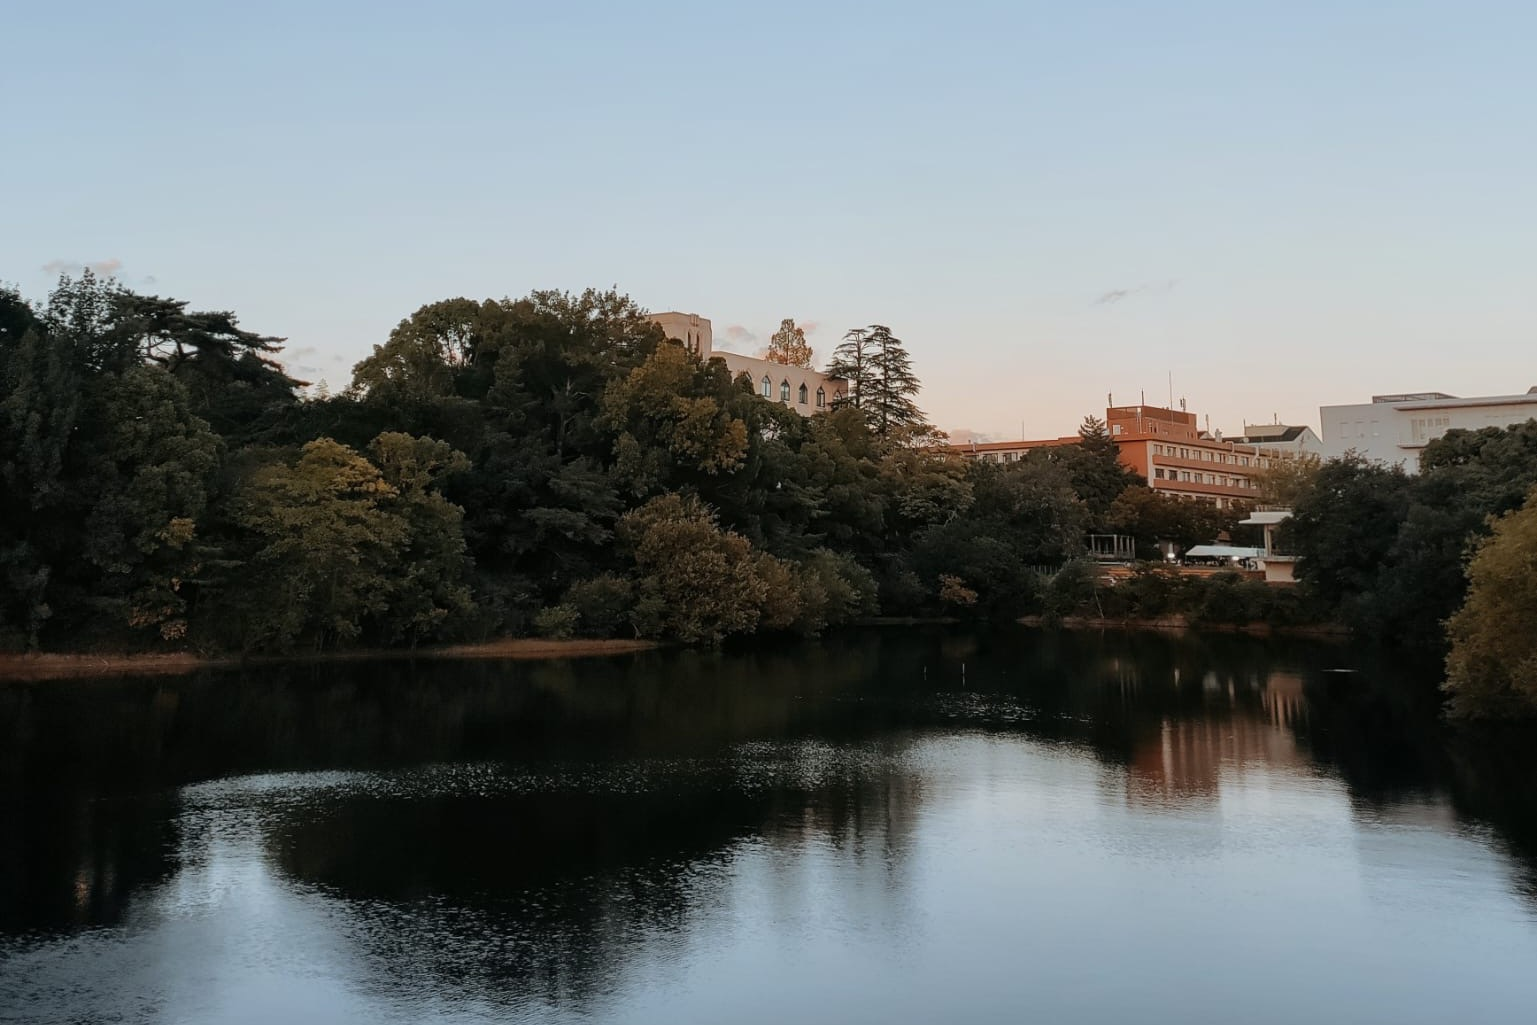
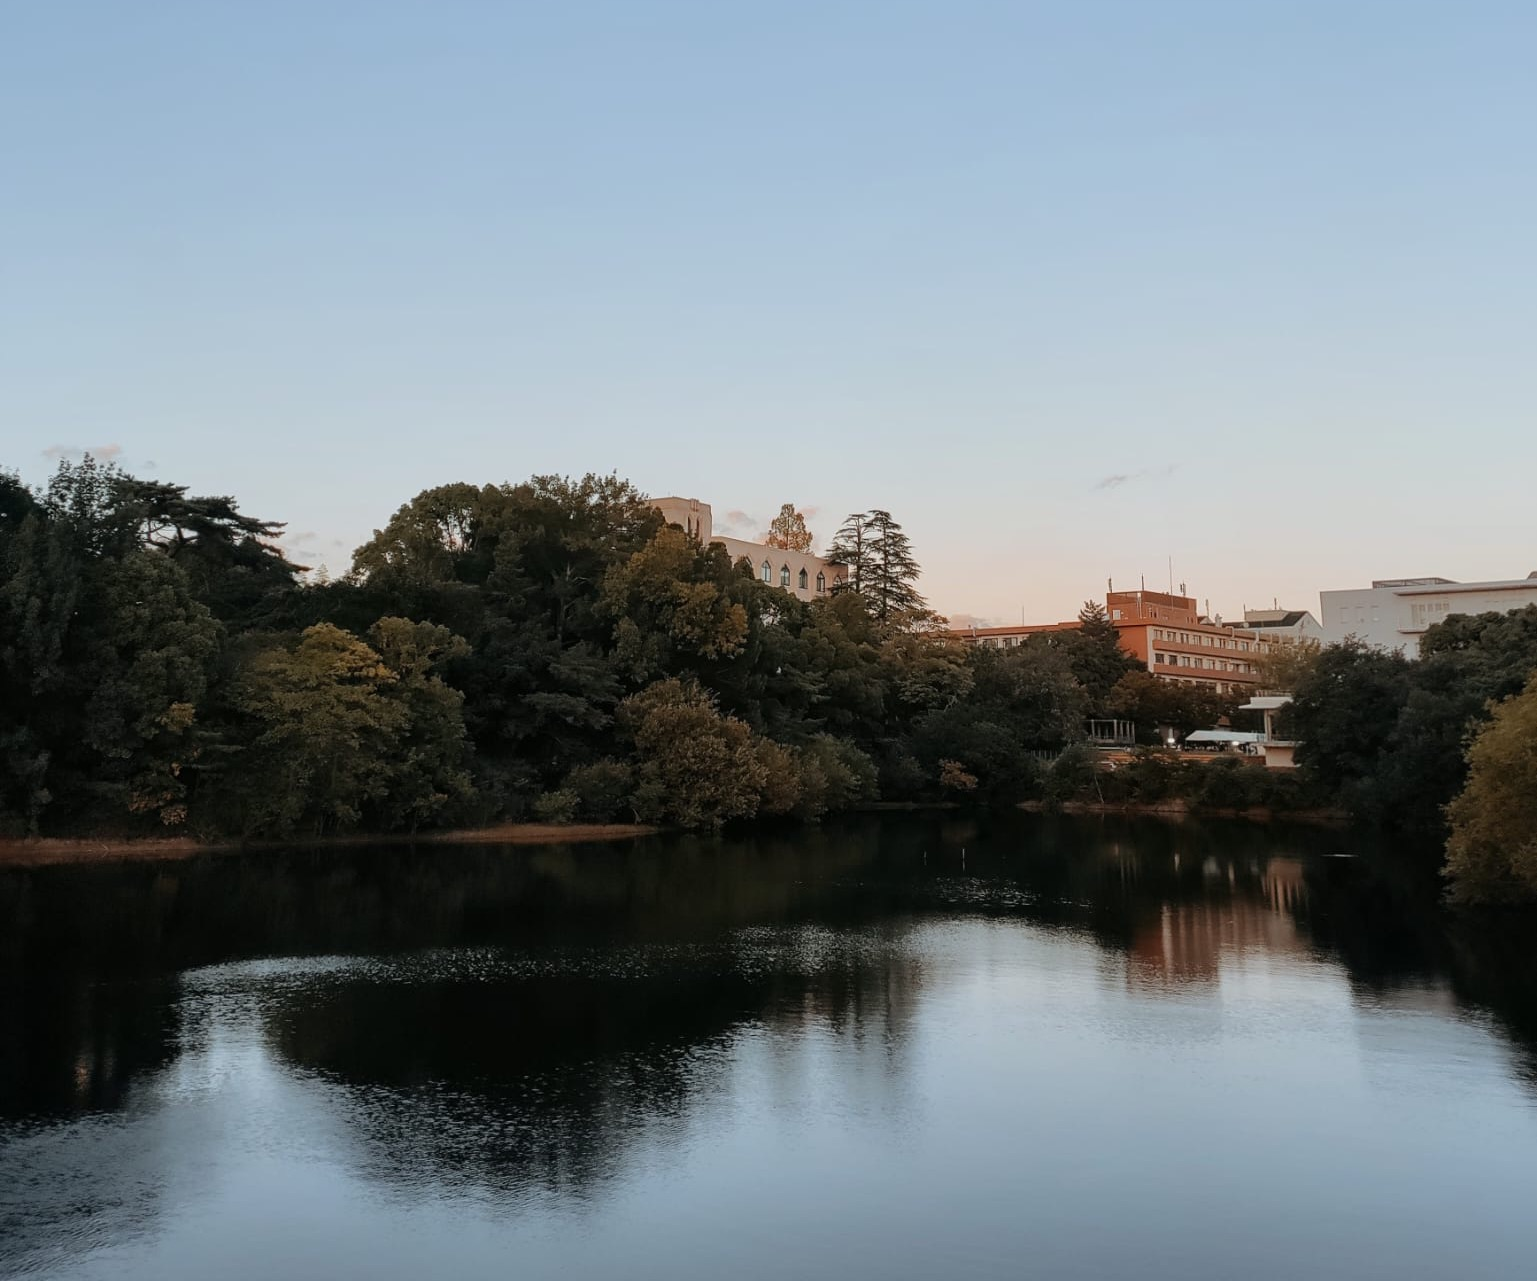
Recrop the pond photo to 6:5 with more sky

diff --git a/index.html b/index.html
@@ -502,7 +502,7 @@
       <h1>The miserable sinner <span class="post-date">October 2026</span></h1>
 
       <figure>
-        <img src="blog/the-miserable-sinner_figs/pond-at-dusk.jpg" alt="A pond at dusk, with trees and buildings on the far bank and their reflections in the water" width="1537" height="1025" />
+        <img src="blog/the-miserable-sinner_figs/pond-at-dusk.jpg" alt="A pond at dusk, with trees and buildings on the far bank and their reflections in the water" width="1537" height="1281" />
       </figure>
 
       <p class="lede">&mdash;&thinsp;ah damn, I should&rsquo;ve stolen the ginger.</p>

diff --git a/blog/the-miserable-sinner.html b/blog/the-miserable-sinner.html
@@ -294,7 +294,7 @@
       <p class="post-meta">Rajeev Verma &middot; Essays</p>
 
       <figure>
-        <img src="the-miserable-sinner_figs/pond-at-dusk.jpg" alt="A pond at dusk, with trees and buildings on the far bank and their reflections in the water" width="1537" height="1025" />
+        <img src="the-miserable-sinner_figs/pond-at-dusk.jpg" alt="A pond at dusk, with trees and buildings on the far bank and their reflections in the water" width="1537" height="1281" />
       </figure>
 
       <p class="lede">&mdash;&thinsp;ah damn, I should&rsquo;ve stolen the ginger.</p>
